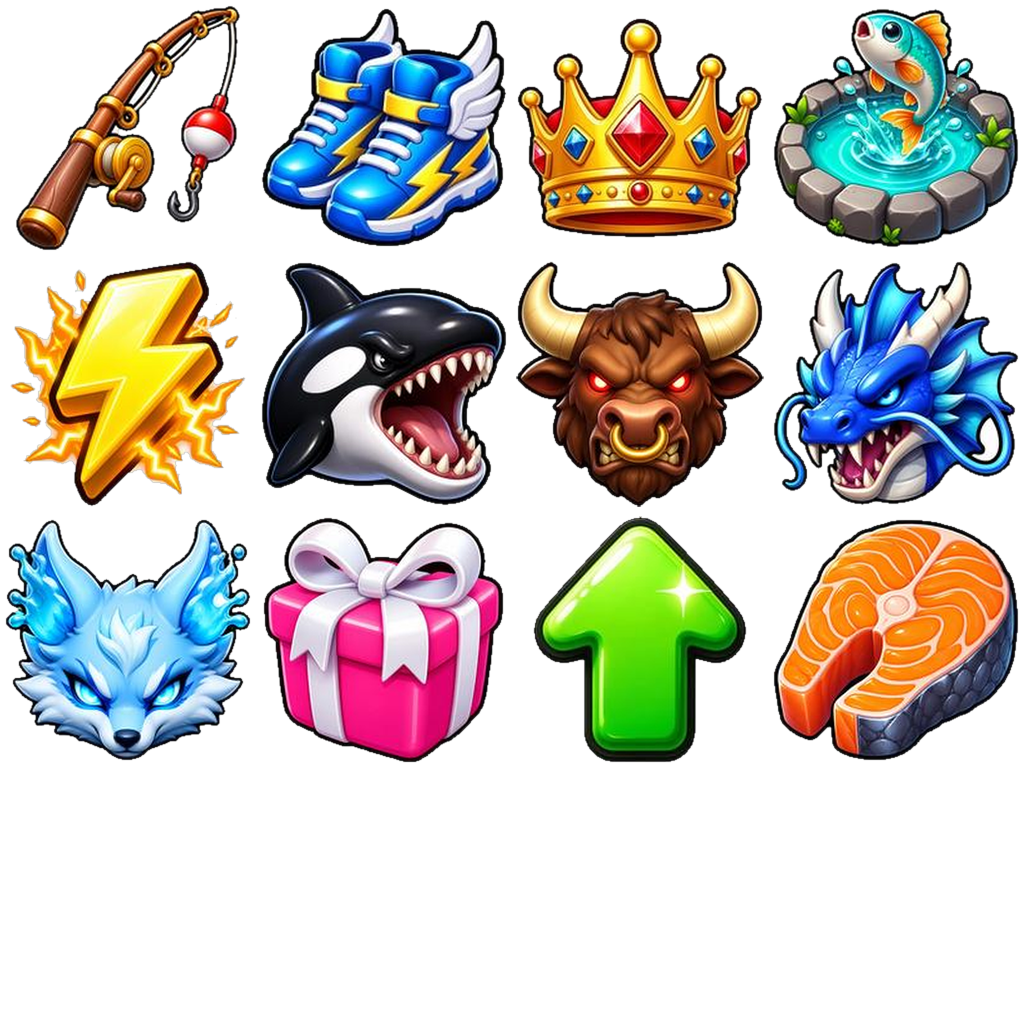
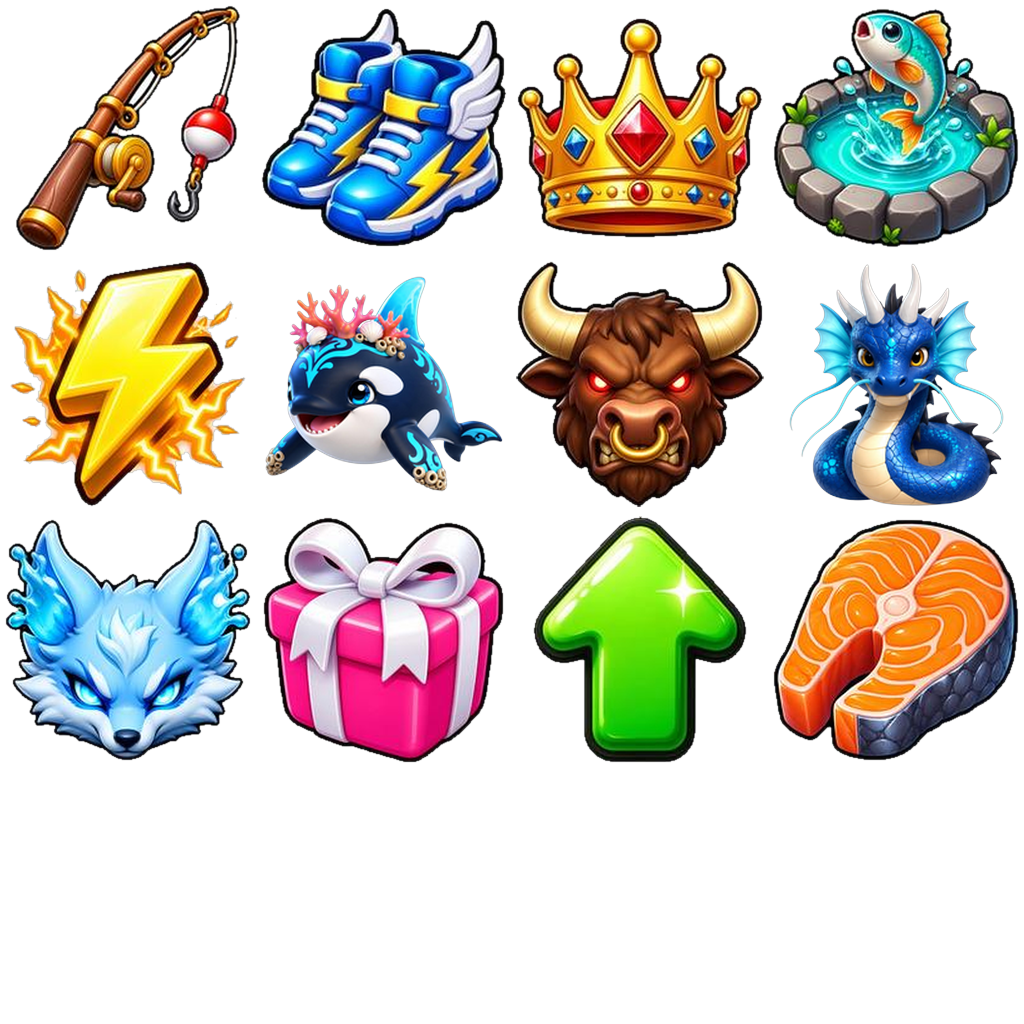
Retratos de la Orca y el Dragón iguales a sus modelos
Íconos nuevos hechos en Canva describiendo los modelos 3D; reemplazan sus
celdas en la hoja 2 y se ven en el panel de hambre y en la tienda.

Claude-Session: https://claude.ai/code/session_01PGyC48LUVQu8JAc6PVogWF

Changed region(s): [[0.75, 0.25, 1.0, 0.5], [0.25, 0.25, 0.5, 0.5]]

diff --git a/docs/ui-assets.md b/docs/ui-assets.md
@@ -78,7 +78,10 @@ Para agregar un ícono: generarlo con el mismo prompt base, recortarlo, armar ot
 ### Hoja 2 (tiendas)
 
 `assets/ui/iconos/iconos_hoja2.png` (4x4 de 256 px), `Assets.UI.IconSheet2 =
-97933580602007`. Mismo prompt base. Las celdas 12 y 13 no son íconos: son los rayos
+127258628735083` (antes 97933580602007). Mismo prompt base. La orca (5) y el dragón (7) se
+rehicieron en Canva describiendo sus modelos 3D (orca azul noche con marcas cian y corona
+de coral; dragón marino azul con cuernos blancos y bigotes): `orca_modelo.png`,
+`dragon_modelo.png`. Las celdas 12 y 13 no son íconos: son los rayos
 blancos (sunburst) que `ShopParts.sunburst` tiñe y hace girar detrás de las tarjetas, y
 un brillo redondo; se dibujaron con Python (PIL), no con IA.
 
@@ -89,7 +92,7 @@ un brillo redondo; se dibujaron con Python (PIL), no con IA.
 | 2 | crown | corona.png | Tarjeta VIP |
 | 3 | pond | estanque.png | Tarjetas de estanques |
 | 4 | bolt | rayo.png | Banner del entrenamiento del servidor |
-| 5–8 | orca, minotaur, dragon, fox | orca/minotauro/dragon/zorro.png | Elegir el siguiente monstruo |
+| 5–8 | orca, minotaur, dragon, fox | orca_modelo/minotauro/dragon_modelo/zorro.png | Retrato del panel de hambre y elegir el siguiente monstruo |
 | 9 | giftPink | regalo.png | Botón rosa de regalar |
 | 10 | arrow | flecha.png | (libre: subir de nivel) |
 | 11 | meat | carne.png | Llenar al monstruo |
